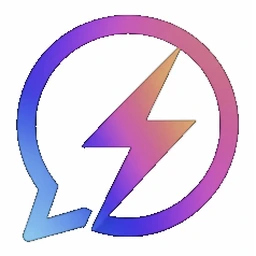
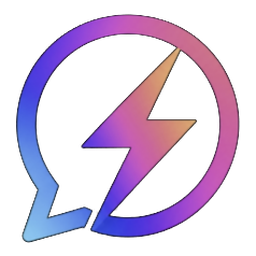
Make the brand mark transparent
The mark is keyed off the original artwork's black field with alpha ramped
only across the anti-alias band, so gradient colours stay true rather than
being un-premultiplied and brightened. Tiles drop their white fill so the
mark sits on the page ground.

diff --git a/support.html b/support.html
@@ -208,7 +208,7 @@
 <div id="dc-root"><div class="sc-host" data-sc-name="support"><div data-dc-tpl="5" style="overflow-x: hidden;"><header data-dc-tpl="6" style="position: sticky; top: 0px; z-index: 60; backdrop-filter: blur(14px); background: rgba(247, 246, 243, 0.78); border-bottom: 1px solid rgba(44, 43, 51, 0.07);">
   <nav data-dc-tpl="7" style="max-width: 1200px; margin: 0px auto; padding: 14px 24px; display: flex; align-items: center; gap: 24px;">
     <a data-dc-tpl="8" href="index.html" style="display: flex; align-items: center; gap: 10px; color: rgb(44, 43, 51); font-weight: 600; letter-spacing: -0.01em;">
-      <span style="display:grid;place-items:center;width:34px;height:34px;border-radius:11px;overflow:hidden;background:#fff;flex:none;"><img src="assets/mark.webp" alt="" width="34" height="34" style="width:100%;height:100%;object-fit:contain;display:block;"></span>
+      <span style="display:grid;place-items:center;width:34px;height:34px;border-radius:11px;overflow:hidden;background:transparent;flex:none;"><img src="assets/mark.webp" alt="" width="34" height="34" style="width:100%;height:100%;object-fit:contain;display:block;"></span>
       <span data-dc-tpl="10" style="font-size: 18px;">chill haven</span>
     </a>
     <div data-dc-tpl="11" style="flex: 1 1 0%;"></div>
@@ -301,7 +301,7 @@
   </div></section><footer data-dc-tpl="98" style="background: rgb(44, 43, 51); color: rgba(255, 255, 255, 0.72); padding: clamp(48px, 6vw, 72px) 24px 40px;">
   <div data-dc-tpl="99" style="max-width: 1100px; margin: 0px auto; display: grid; grid-template-columns: 1.4fr 1fr 1fr 1fr; gap: 36px;">
     <div data-dc-tpl="100">
-      <a data-dc-tpl="101" href="index.html" style="display: flex; align-items: center; gap: 10px; color: rgb(255, 255, 255); font-weight: 600;"><span style="display:grid;place-items:center;width:32px;height:32px;border-radius:10px;overflow:hidden;background:#fff;flex:none;"><img src="assets/mark.webp" alt="" width="32" height="32" style="width:100%;height:100%;object-fit:contain;display:block;"></span>chill haven</a>
+      <a data-dc-tpl="101" href="index.html" style="display: flex; align-items: center; gap: 10px; color: rgb(255, 255, 255); font-weight: 600;"><span style="display:grid;place-items:center;width:32px;height:32px;border-radius:10px;overflow:hidden;background:transparent;flex:none;"><img src="assets/mark.webp" alt="" width="32" height="32" style="width:100%;height:100%;object-fit:contain;display:block;"></span>chill haven</a>
       <p data-dc-tpl="103" style="margin: 16px 0px 0px; font-size: 14px; max-width: 260px; line-height: 1.6;">A private wellbeing app for 14–17 year olds. iPhone, iOS 17 or later.</p>
     </div>
     <div data-dc-tpl="104"><p data-dc-tpl="105" style="margin: 0px 0px 14px; font-size: 13px; font-weight: 600; color: rgb(255, 255, 255);">Product</p><div data-dc-tpl="106" style="display: flex; flex-direction: column; gap: 10px; font-size: 14px;"><a data-dc-tpl="107" href="index.html#about" style="color: rgba(255, 255, 255, 0.72);">About</a><a data-dc-tpl="108" href="index.html#features" style="color: rgba(255, 255, 255, 0.72);">Features</a><a data-dc-tpl="109" href="index.html#privacy" style="color: rgba(255, 255, 255, 0.72);">Privacy by design</a></div></div>

diff --git a/privacy.html b/privacy.html
@@ -205,7 +205,7 @@
 <div id="dc-root"><div class="sc-host" data-sc-name="privacy"><div data-dc-tpl="5" style="overflow-x: hidden;"><header data-dc-tpl="6" style="position: sticky; top: 0px; z-index: 60; backdrop-filter: blur(14px); background: rgba(247, 246, 243, 0.78); border-bottom: 1px solid rgba(44, 43, 51, 0.07);">
   <nav data-dc-tpl="7" style="max-width: 1200px; margin: 0px auto; padding: 14px 24px; display: flex; align-items: center; gap: 24px;">
     <a data-dc-tpl="8" href="index.html" style="display: flex; align-items: center; gap: 10px; color: rgb(44, 43, 51); font-weight: 600; letter-spacing: -0.01em;">
-      <span style="display:grid;place-items:center;width:34px;height:34px;border-radius:11px;overflow:hidden;background:#fff;flex:none;"><img src="assets/mark.webp" alt="" width="34" height="34" style="width:100%;height:100%;object-fit:contain;display:block;"></span>
+      <span style="display:grid;place-items:center;width:34px;height:34px;border-radius:11px;overflow:hidden;background:transparent;flex:none;"><img src="assets/mark.webp" alt="" width="34" height="34" style="width:100%;height:100%;object-fit:contain;display:block;"></span>
       <span data-dc-tpl="10" style="font-size: 18px;">chill haven</span>
     </a>
     <div data-dc-tpl="11" style="flex: 1 1 0%;"></div>
@@ -284,7 +284,7 @@
   </div></section><footer data-dc-tpl="64" style="background: rgb(44, 43, 51); color: rgba(255, 255, 255, 0.72); padding: clamp(48px, 6vw, 72px) 24px 40px;">
   <div data-dc-tpl="65" style="max-width: 1100px; margin: 0px auto; display: grid; grid-template-columns: 1.4fr 1fr 1fr 1fr; gap: 36px;">
     <div data-dc-tpl="66">
-      <a data-dc-tpl="67" href="index.html" style="display: flex; align-items: center; gap: 10px; color: rgb(255, 255, 255); font-weight: 600;"><span style="display:grid;place-items:center;width:32px;height:32px;border-radius:10px;overflow:hidden;background:#fff;flex:none;"><img src="assets/mark.webp" alt="" width="32" height="32" style="width:100%;height:100%;object-fit:contain;display:block;"></span>chill haven</a>
+      <a data-dc-tpl="67" href="index.html" style="display: flex; align-items: center; gap: 10px; color: rgb(255, 255, 255); font-weight: 600;"><span style="display:grid;place-items:center;width:32px;height:32px;border-radius:10px;overflow:hidden;background:transparent;flex:none;"><img src="assets/mark.webp" alt="" width="32" height="32" style="width:100%;height:100%;object-fit:contain;display:block;"></span>chill haven</a>
       <p data-dc-tpl="69" style="margin: 16px 0px 0px; font-size: 14px; max-width: 260px; line-height: 1.6;">A private wellbeing app for 14–17 year olds. iPhone, iOS 17 or later.</p>
     </div>
     <div data-dc-tpl="70"><p data-dc-tpl="71" style="margin: 0px 0px 14px; font-size: 13px; font-weight: 600; color: rgb(255, 255, 255);">Product</p><div data-dc-tpl="72" style="display: flex; flex-direction: column; gap: 10px; font-size: 14px;"><a data-dc-tpl="73" href="index.html#about" style="color: rgba(255, 255, 255, 0.72);">About</a><a data-dc-tpl="74" href="index.html#features" style="color: rgba(255, 255, 255, 0.72);">Features</a><a data-dc-tpl="75" href="index.html#privacy" style="color: rgba(255, 255, 255, 0.72);">Privacy by design</a></div></div>

diff --git a/index.html b/index.html
@@ -207,7 +207,7 @@
 <div id="dc-root"><div class="sc-host" data-sc-name="index"><div data-dc-tpl="6" style="overflow-x: hidden;"><header data-dc-tpl="7" style="position: sticky; top: 0px; z-index: 60; backdrop-filter: blur(14px); background: rgba(247, 246, 243, 0.78); border-bottom: 1px solid rgba(44, 43, 51, 0.07);">
   <nav data-dc-tpl="8" style="max-width: 1200px; margin: 0px auto; padding: 14px 24px; display: flex; align-items: center; gap: 24px;">
     <a data-dc-tpl="9" href="#top" style="display: flex; align-items: center; gap: 10px; color: rgb(44, 43, 51); font-weight: 600; letter-spacing: -0.01em;">
-      <span style="display:grid;place-items:center;width:34px;height:34px;border-radius:11px;overflow:hidden;background:#fff;flex:none;"><img src="assets/mark.webp" alt="" width="34" height="34" style="width:100%;height:100%;object-fit:contain;display:block;"></span>
+      <span style="display:grid;place-items:center;width:34px;height:34px;border-radius:11px;overflow:hidden;background:transparent;flex:none;"><img src="assets/mark.webp" alt="" width="34" height="34" style="width:100%;height:100%;object-fit:contain;display:block;"></span>
       <span data-dc-tpl="11" style="font-size: 18px;">chill haven</span>
     </a>
     <div data-dc-tpl="12" style="flex: 1 1 0%;"></div>
@@ -461,7 +461,7 @@
   </div></section><footer data-dc-tpl="280" style="background: rgb(44, 43, 51); color: rgba(255, 255, 255, 0.72); padding: clamp(48px, 6vw, 72px) 24px 40px;">
   <div data-dc-tpl="281" style="max-width: 1100px; margin: 0px auto; display: grid; grid-template-columns: 1.4fr 1fr 1fr 1fr; gap: 36px;">
     <div data-dc-tpl="282">
-      <a data-dc-tpl="283" href="#top" style="display: flex; align-items: center; gap: 10px; color: rgb(255, 255, 255); font-weight: 600;"><span style="display:grid;place-items:center;width:32px;height:32px;border-radius:10px;overflow:hidden;background:#fff;flex:none;"><img src="assets/mark.webp" alt="" width="32" height="32" style="width:100%;height:100%;object-fit:contain;display:block;"></span>chill haven</a>
+      <a data-dc-tpl="283" href="#top" style="display: flex; align-items: center; gap: 10px; color: rgb(255, 255, 255); font-weight: 600;"><span style="display:grid;place-items:center;width:32px;height:32px;border-radius:10px;overflow:hidden;background:transparent;flex:none;"><img src="assets/mark.webp" alt="" width="32" height="32" style="width:100%;height:100%;object-fit:contain;display:block;"></span>chill haven</a>
       <p data-dc-tpl="285" style="margin: 16px 0px 0px; font-size: 14px; max-width: 260px; line-height: 1.6;">A private wellbeing app for 14–17 year olds. iPhone, iOS 17 or later.</p>
     </div>
     <div data-dc-tpl="286">
